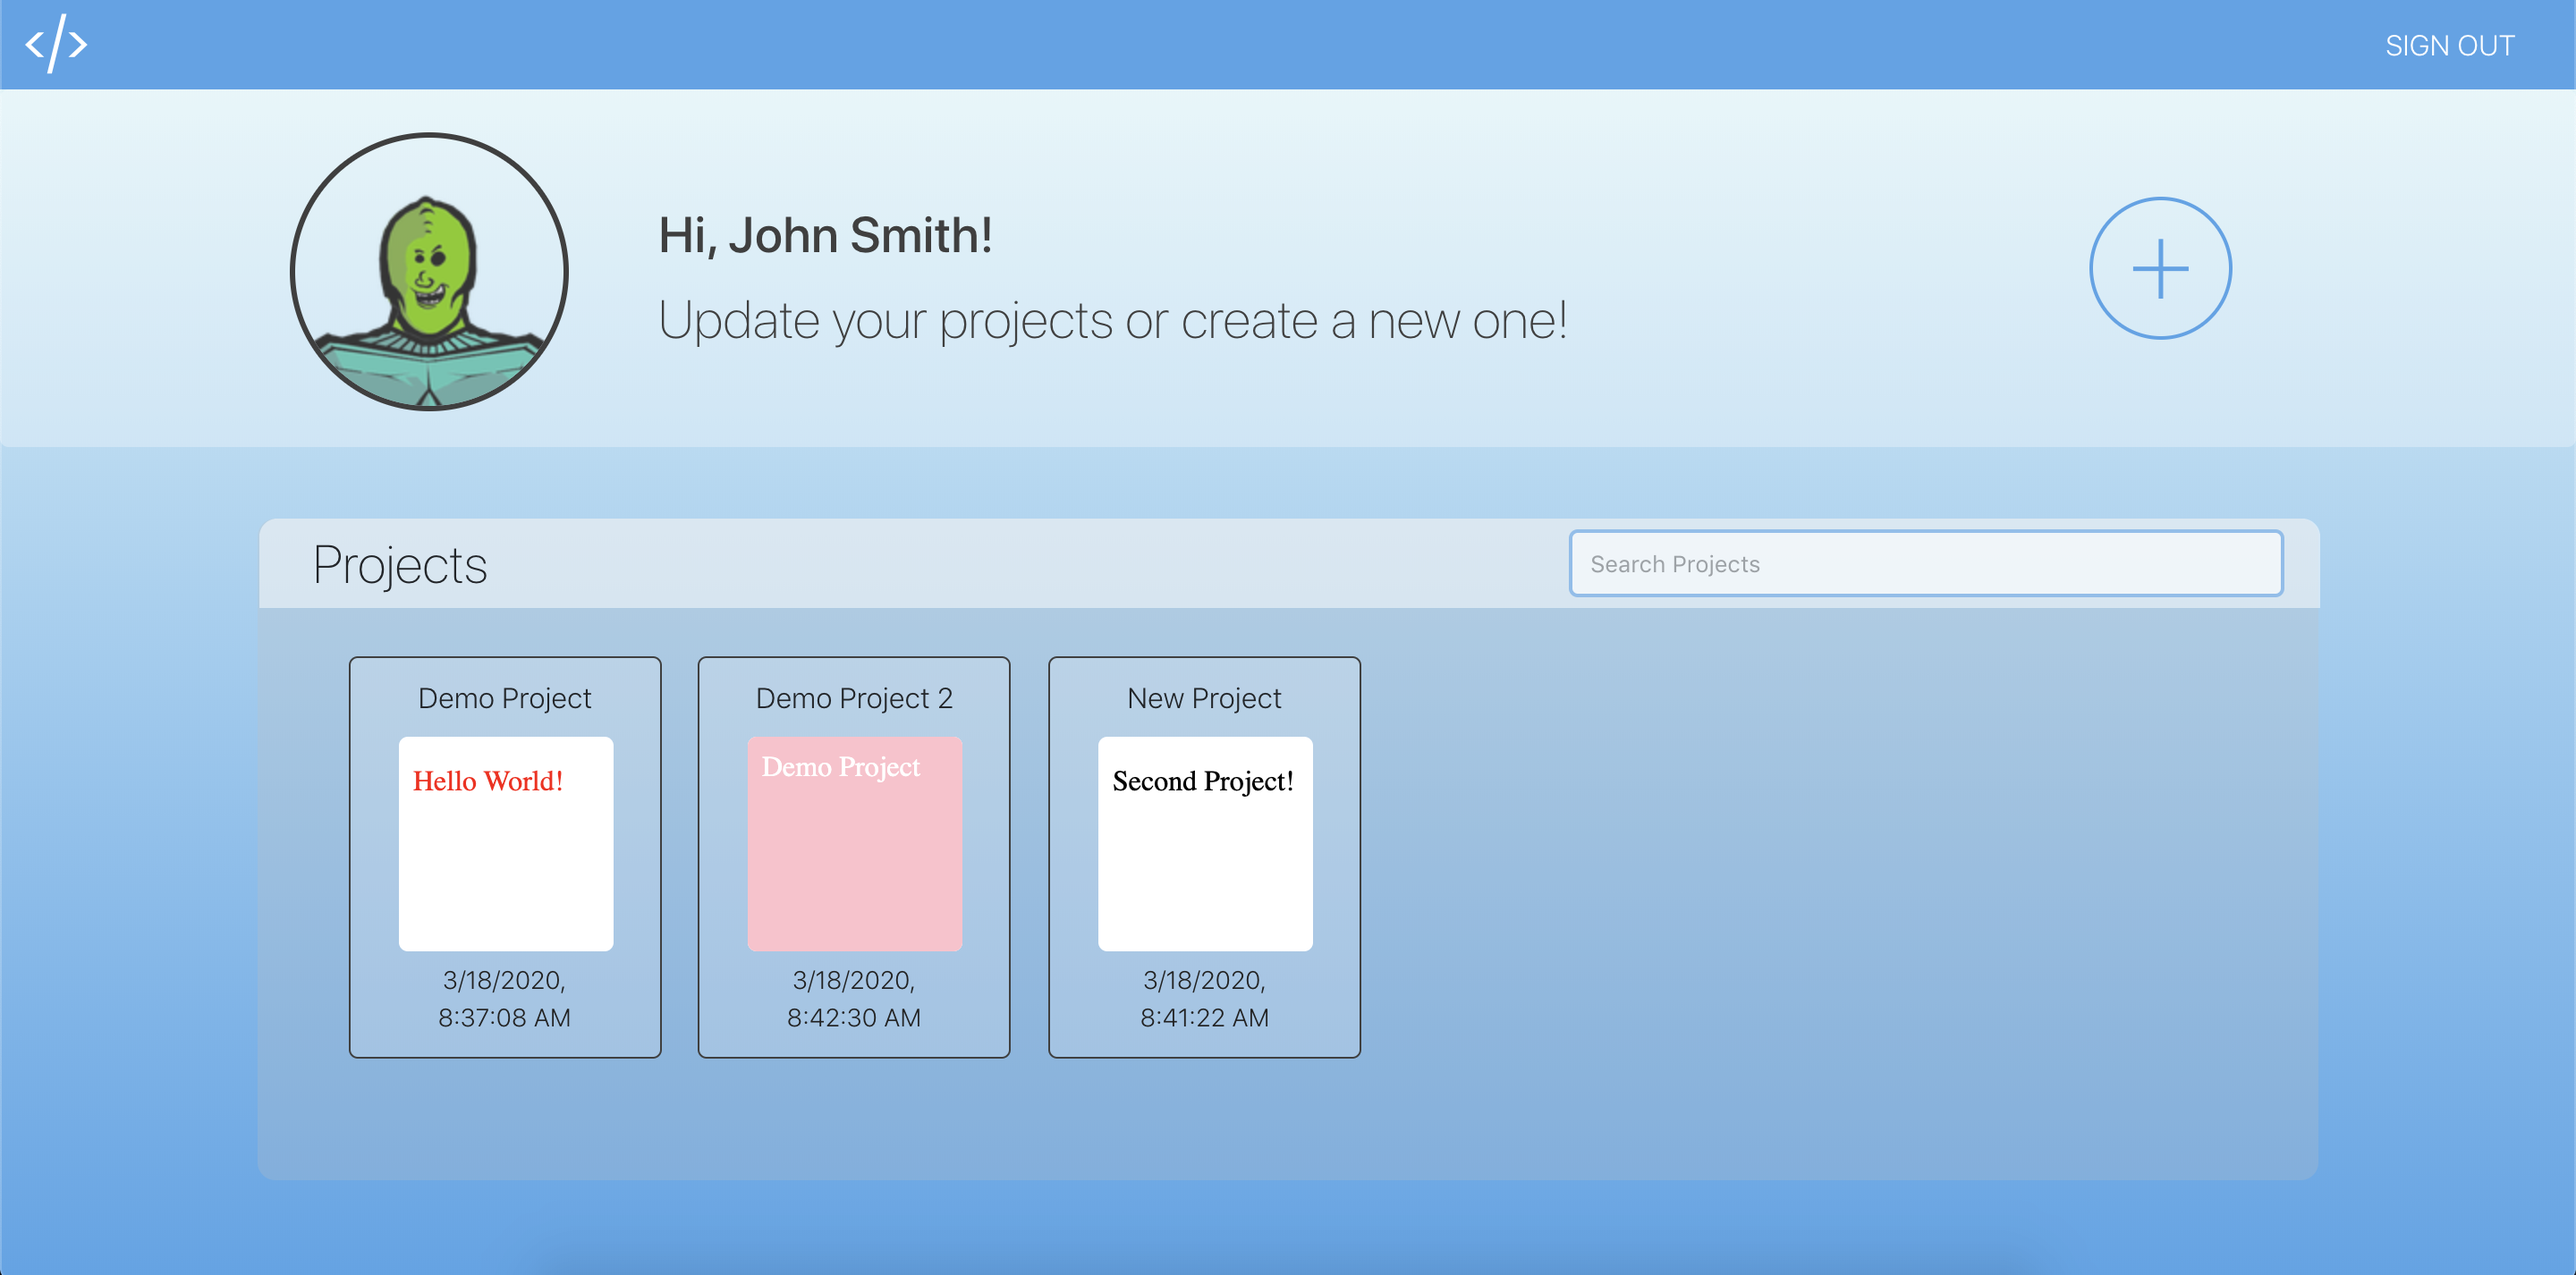
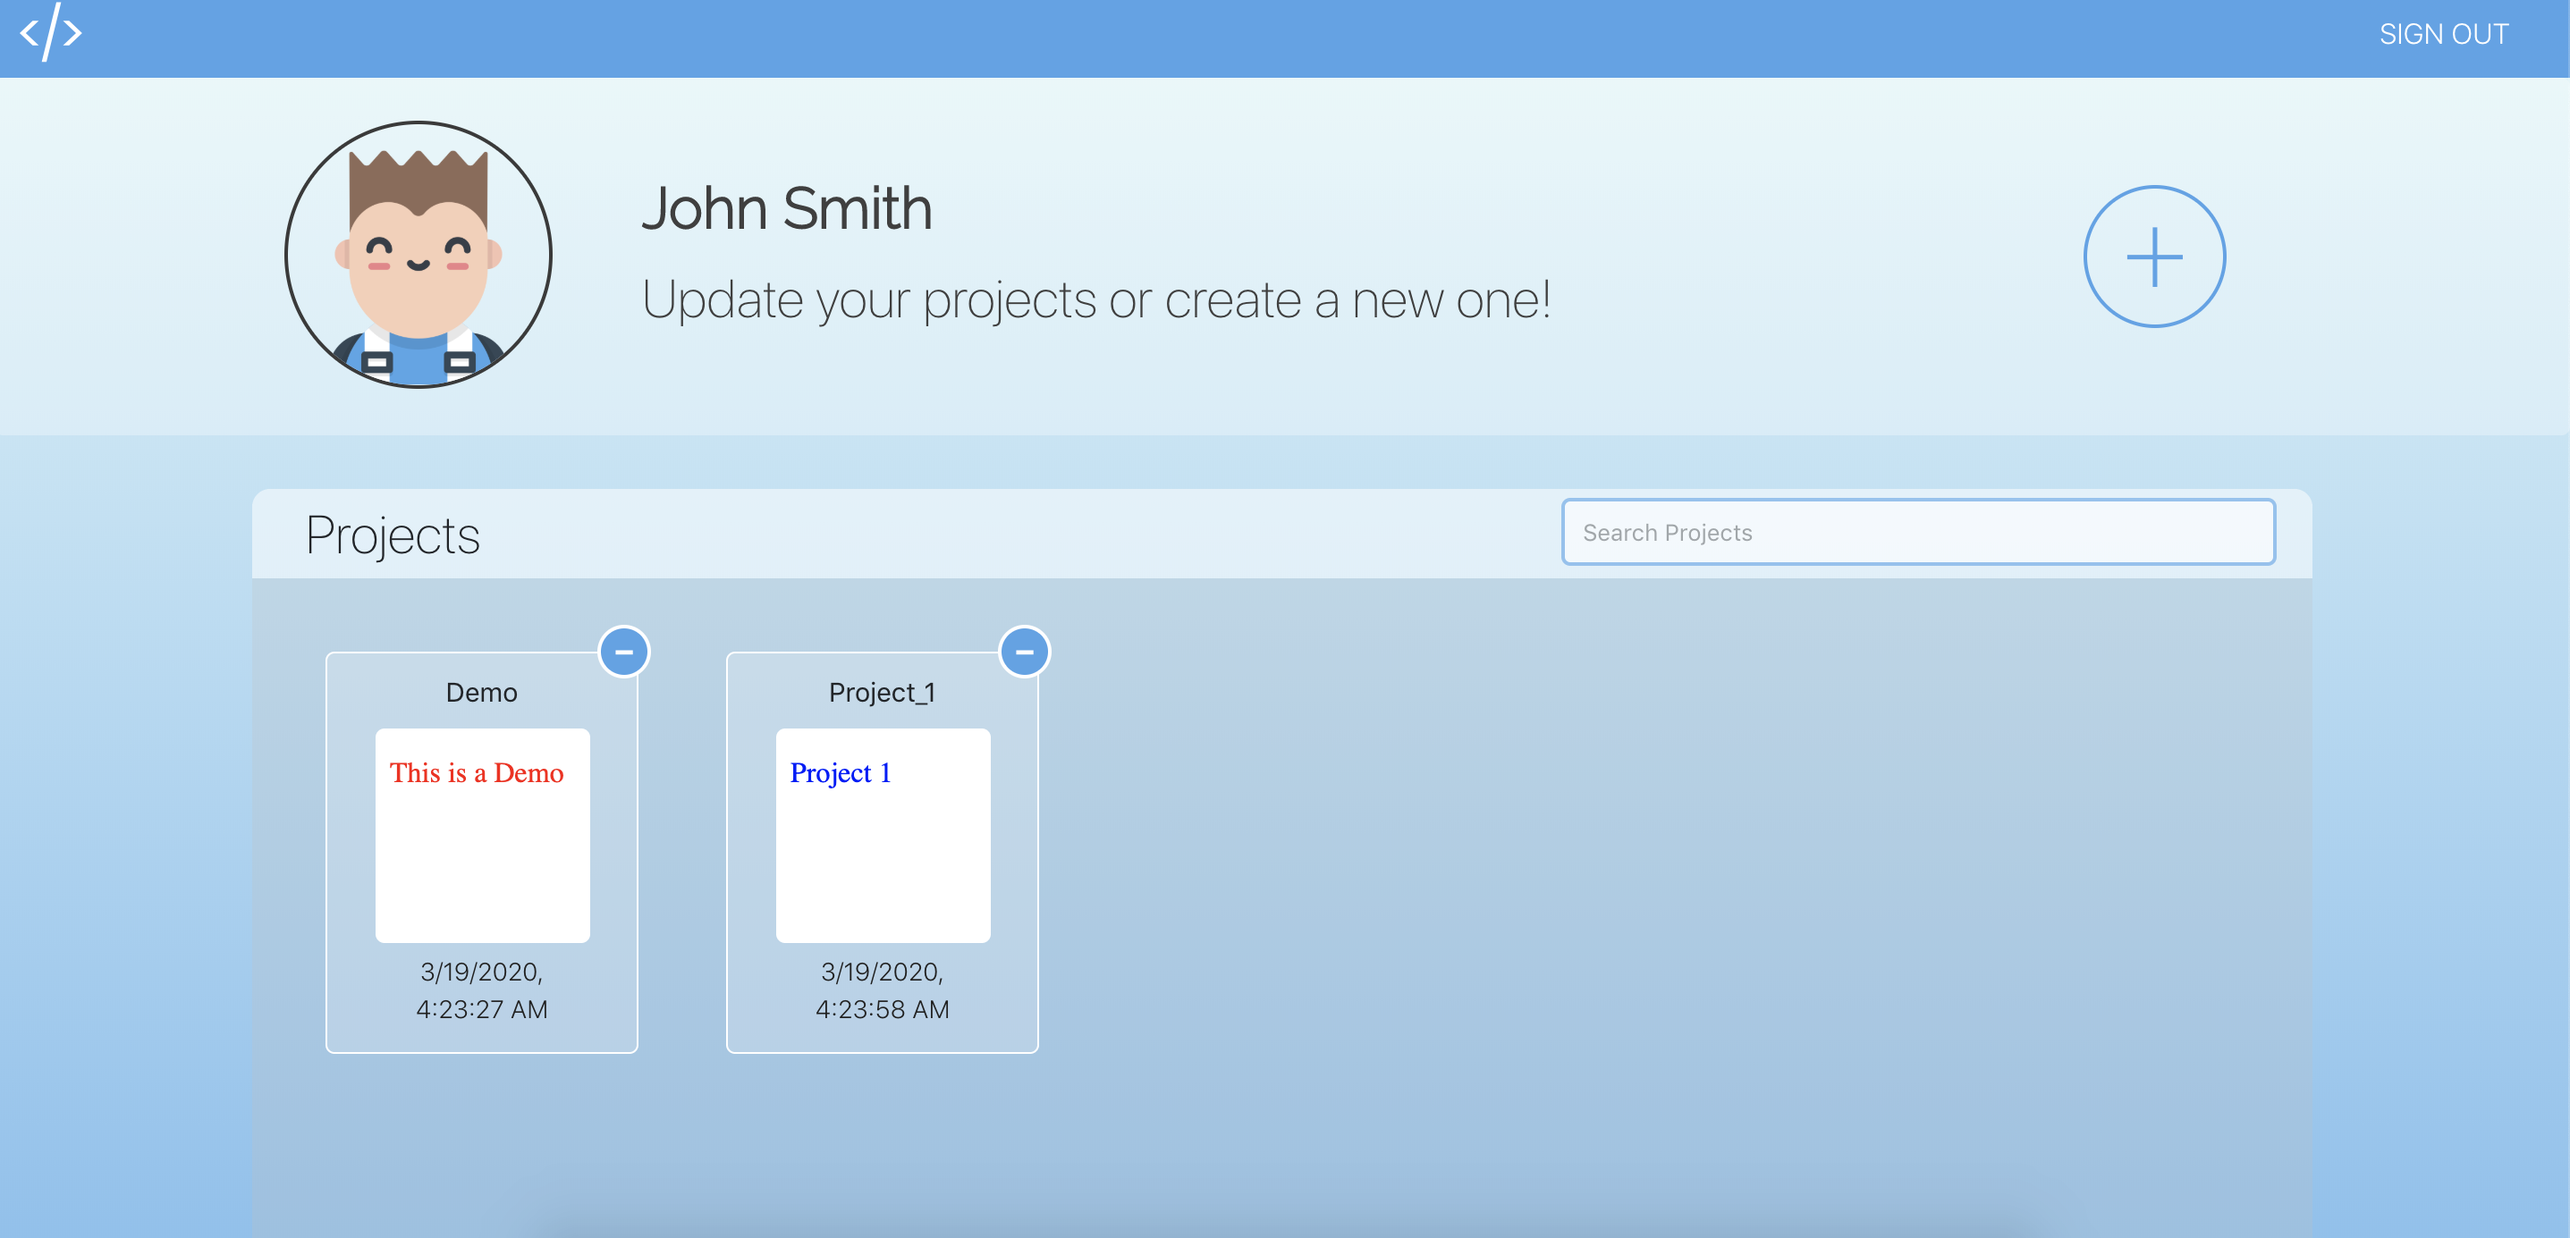
Css touch up and delete project function

diff --git a/src/pages/Profile/Profile.css b/src/pages/Profile/Profile.css
@@ -4,16 +4,18 @@
 }
 
 .profilepage{
-    height: 100vh;
+    height: 150vh;
     position: relative;
-
     background: linear-gradient(
         to top,
         rgb(83, 163, 232) 0%,
         rgb(228, 248, 248) 100%
       );
+      overflow: hidden;
 
 }
+
+
 .profile-projects{
     background-color: rgba(192, 191, 192, 0.25);
     font-weight: 200;
@@ -22,10 +24,11 @@
     text-align: center;
     margin:auto;
     position: relative;
-    top: 240px;
-    padding-top: 0;
-    border-radius: 10px;
-    height: 370px;
+    border-radius: 0 0 10px 10px;
+    height: 580px;/*370*/
+    overflow-y: scroll;
+    overflow-x: hidden;
+    top: 48px;
 }
 
 .profile-projects:hover {
@@ -35,8 +38,8 @@
 .no-project-text{
     position: relative;
     margin:auto;
-    bottom:50px;
-    left: 130px;
+    top: 50px;
+
 }
 
 .display-name{
@@ -52,7 +55,7 @@
 .user-character {
     position: relative;
     float: left;
-    border: 2px solid rgb(116, 115, 115);
+    border: 2px solid rgb(58, 58, 58);
     border-radius: 80px;
     bottom: 40px;
     margin-right: 50px;
@@ -61,9 +64,6 @@
     height: 150px;
 }
 
-.user-circle{
-
-}
 
 .new-project-button{
     width: 80px;
@@ -76,7 +76,7 @@
     position: relative;
     font-size: 70px;
     font-weight: 200;
-    bottom: 45px;
+    bottom: 95px;
     right: 160px;
     z-index: 40;
 }
@@ -96,18 +96,33 @@
 }
 
 .search-nav {
-    background-color: rgba(255, 255, 255, 0.493);
+    background-color: rgba(255, 255, 255, 0.534);
     width: 80vw;
-    position: relative;
-    left: -20px;
+    position: absolute;
+    top: 280px;
+    margin: auto;
+    left: 10vw;
     height: 50px;
     border-radius: 10px 10px 0px 0px;
+    z-index: 40;
 }
 
 #search-nav-title {
     float: left;
     position: relative;
-    bottom: 230px;
+    font-size: 30px;
     left: 30px;
+    top: 2px;
+    font-weight: 200;
 }
 
+.profile-title {
+    position: relative;
+    top: -10px;
+
+}
+
+h2{
+    font-weight: 600;
+    font-family: 'Raleway', sans-serif;
+}

diff --git a/src/pages/Profile/Profile.jsx b/src/pages/Profile/Profile.jsx
@@ -99,20 +99,19 @@ class ProfilePage extends React.Component{
 
             <Jumbotron className="display-name">
             <img className="user-character" alt="usericon" src={Boy}></img>
-                {/*}
-            <img className="user-character" alt="usericon" src={`https://robohash.org/${id}?set=set2&size=150x150`}></img>
-        {*/}
-            <h3>Hi, {display}! </h3>
+            <div className="profile-title">
+            <h2>{display}</h2>
             Update your projects or create a new one!
+            </div>
             <button className=" new-project-button" onClick={()=> this.props.history.push('/playground')}><span id="plus">+</span></button>
             </Jumbotron>
-
-            <Jumbotron fluid className="profile-projects">
-                        <Container>
             <div className="search-nav">
                <span id="search-nav-title">Projects</span>
             <SearchBox id="search-box-nav" handleChange={this.handleSearch}/>
              </div>
+            <Jumbotron fluid className="profile-projects">
+                        <Container>
+
             {
                 projects.length == 0?(
 

diff --git a/src/components/sign-out/sign-out.styles.css b/src/components/sign-out/sign-out.styles.css
@@ -17,7 +17,7 @@
 }
 
 
-.sign-in-up-button:hover, .sign-in-up-button:focus {
+.sign-in-up-button:hover {
     background-color:  white !important;
     color: rgb(83, 163, 232);
     border: 1px solid white;
@@ -35,11 +35,19 @@
     margin-top: 5px;
 }
 
-.sign-out-button:hover, .sign-out-button:focus{
+.sign-out-button:hover{
     color: #212121;
     background-color: transparent;
     border:none;
     outline: none;
     box-shadow: none;
+
+}
+
+.sign-out-button:focus, .sign-in-up-button:focus{
+    background-color: transparent;
+    outline: none;
+    box-shadow: none;
+    border: 1px solid white;
 
 }

diff --git a/src/components/project-list/project-list.styles.css b/src/components/project-list/project-list.styles.css
@@ -5,16 +5,15 @@
     display: grid;
     grid-template-columns: 1fr 1fr 1fr 1fr 1fr;
     grid-gap: 0px 10px;
-    bottom: 230px;
     left: 5px;
-
+    bottom: 70px;
   }
 
   .delete-button {
     width: 30px;
     height: 30px;
     border-radius: 50%;
-    border: 2px solid white;
+    border: 1.5px solid white;
     padding: 0;
     background-color: rgb(83, 163, 232);
     color: white;

diff --git a/src/index.css b/src/index.css
@@ -5,8 +5,7 @@ body {
     sans-serif;
   -webkit-font-smoothing: antialiased;
   -moz-osx-font-smoothing: grayscale;
-  width: 100%;
-  height: 100%;
+
   background-image: url('background-img.jpg') !important;
   background-repeat: no-repeat !important;
   background-size: 100vw 100vh !important;

diff --git a/src/components/search-box/search-box.styles.css b/src/components/search-box/search-box.styles.css
@@ -5,14 +5,15 @@
   padding: 10px;
   width: 150px;
   width: 400px;
-  position: relative;
+  position: absolute;
   border-radius: 5px;
   opacity: 60%;
   height: 38px;
   font-size: 13px;
   float: right;
-  bottom: 226px;
-  right: 20px
+  right: 20px;
+  z-index:50;
+  top: 5px;
 }
 
 

diff --git a/src/components/panel-list/panel-list.styles.css b/src/components/panel-list/panel-list.styles.css
@@ -32,7 +32,7 @@
     border-radius: 50% !important;
     border: 1px solid white !important;
     float: right;
-    left: 80.5vw;
+    left: 75vw;
     background-color:transparent;
 }
 
@@ -60,6 +60,6 @@
 
 
 .user_button {
-    left: 76vw;
+    left: 85vw;
 
 }

diff --git a/src/components/export-button/export-button.styles.css b/src/components/export-button/export-button.styles.css
@@ -21,7 +21,7 @@
     border-radius: 50% !important;
     border: 1px solid white !important;
     float: right;
-    left: 85vw;
+    left: 80vw;
     background-color:transparent;
 }
 

diff --git a/src/App.css b/src/App.css
@@ -4,3 +4,4 @@ App {
     background-repeat: no-repeat !important;
     background-size: 100vw 100vh !important;
 }*/
+
